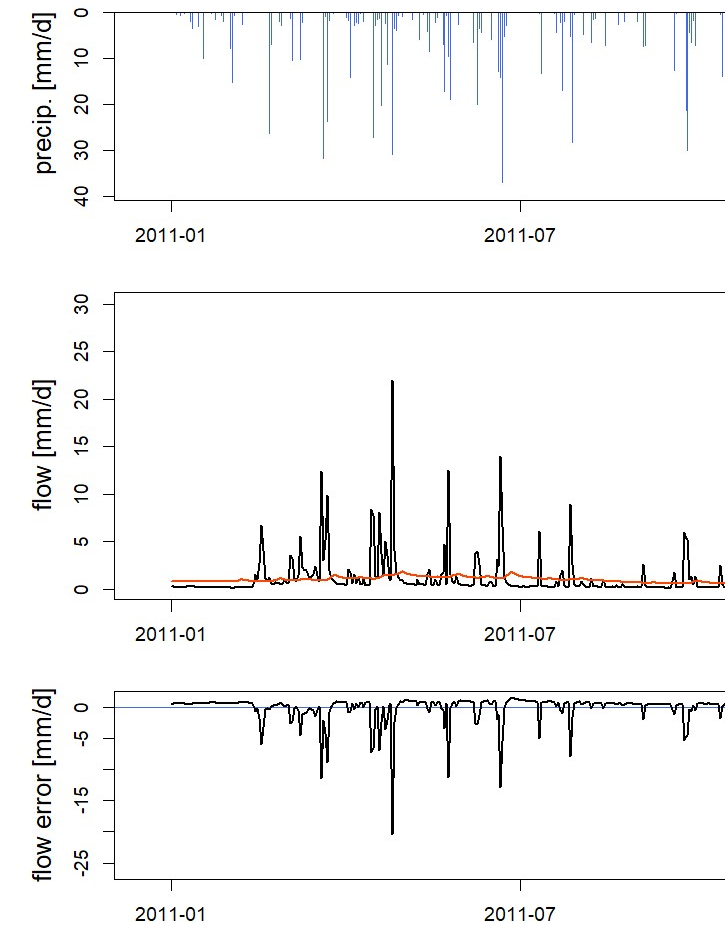
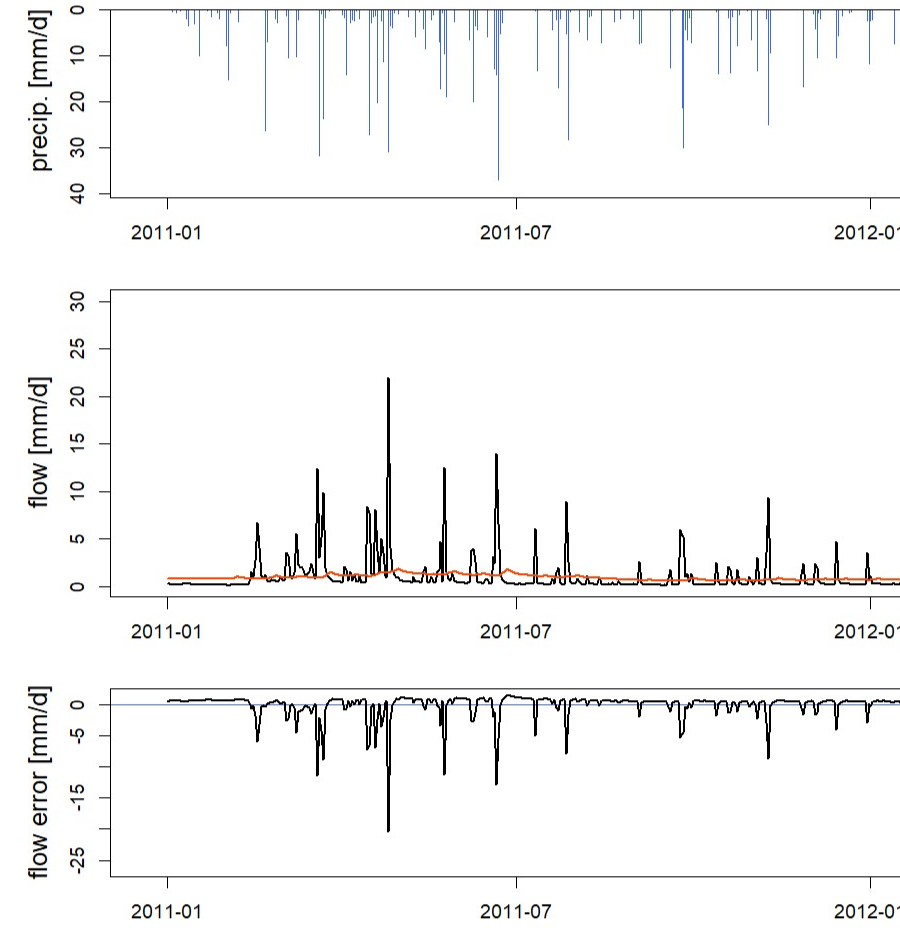
Compromise KK Model image dimensions

diff --git a/index.html b/index.html
@@ -126,9 +126,9 @@
               </div>
             </a>
             <a id="PicAnchor" href="Kinnickinnic.html" class="col-md-4 col-sm-12 col-xs-12" target="_blank">
-              <img id="Image" src="Assets\KK_Model.jpg" alt="Three charts. Top one shows precipitation data. Middle one shows simulated and observed flow, with observed flow consistently lower. Bottom graph shows flow error, which visibly mirrors the flow chart. Most of the flow error is negative.">
+              <img id="Image" src="Assets\KK_Model_cropped.png" alt="Three cropped charts. Top one shows precipitation data. Middle one shows simulated and observed flow, with observed flow consistently lower. Bottom graph shows flow error, which visibly mirrors the flow chart. Most of the flow error is negative.">
               <div class="title-cover">
-                <div class="map-title">Drought Analysis for the Kinnickinnic Watershed</div>
+                <div class="map-title">Drought Analysis of the Kinnickinnic Watershed</div>
               </div>
             </a>
           </div>

diff --git a/Kinnickinnic.html b/Kinnickinnic.html
@@ -53,7 +53,7 @@
 
       <!-- Page Title -->
       <div class="container-fluid">
-        <h1 class="mt-4" align="center">Drought Analysis for the Kinnickinnic Watershed</h1>
+        <h1 class="mt-4" align="center">Drought Analysis of the Kinnickinnic Watershed</h1>
         <div class="col-md-12 col-sm-12 col-xs-12" align="center">
           <a id="PicAnchor" href="Assets\Archuleta Kinnickinnic Poster Portfolio.pdf" class="col-md-12 col-sm-12 col-xs-12" target="_blank" align="center">
             <img id="Image" src="Assets\KK_Presentation02.JPG" alt="Kinnickinnic Watershed Drought Analysis Powerpoint Presentation" style="width:100%;height:auto;" align="center">
